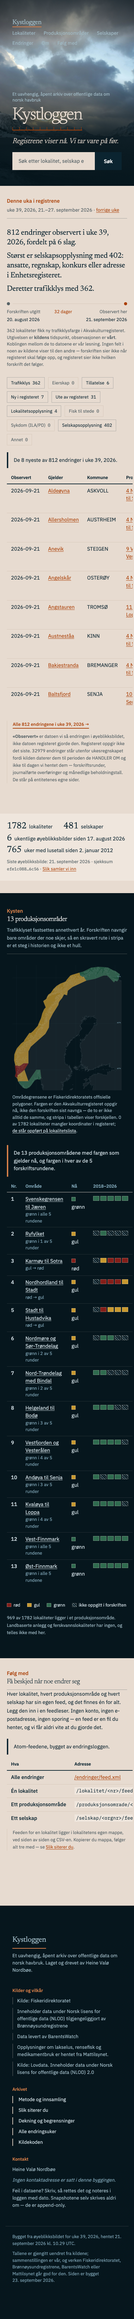
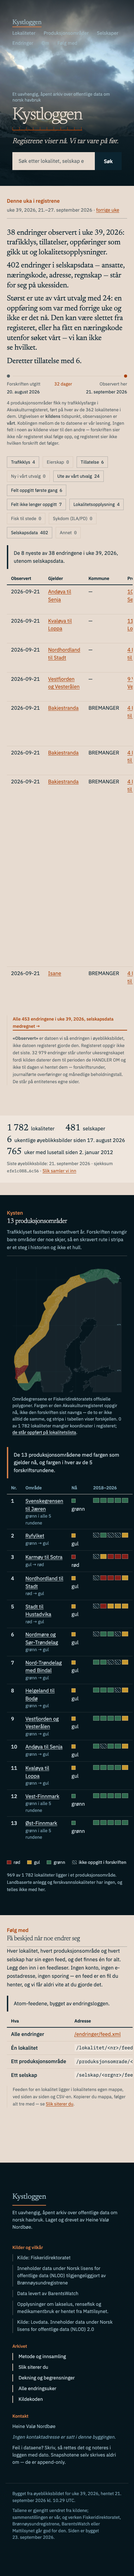
Skjermbildene på nytt, etter punkt 1–3
Samme fem sider, 1440 og 390 px, lys modus, av det ferdige bygget. Tre
endringer er synlige i bildene: uke 39 sier 38 og ikke 812,
selskapsdata står i sin egen sammenfoldede del nederst, og
produksjonsområdesiden har beleggsgraden «beslutning» med sitatet fra
kunngjøringen.

Endringssiden ved 1440 px er nå HEL — 5 518 px mot 43 322 før. Det er
en følge av designet, ikke av kuttet: de 402 selskapsdataradene ligger
i en `<details>` som skriptet lukker.

READMEen har fått en tabell over hvilke bilder som er kuttet og av hva.

diff --git a/docs/design/implementert/README.md b/docs/design/implementert/README.md
@@ -3,6 +3,12 @@
 Tatt 23.09.2026 av det ferdige bygget, ikke av prototypene.
 Lys modus, `deviceScaleFactor: 1`, fem sider i to bredder.
 
+**Fornyet 23.09.2026, etter tre endringer som alle er synlige i
+bildene:** uke 39 sier 38 endringer og ikke 812, selskapsdata står i
+sin egen sammenfoldede del nederst på endringssiden, og
+produksjonsområdesiden har den nye beleggsgraden «beslutning» med
+sitatet fra departementets kunngjøring.
+
 | Fil | Side |
 |---|---|
 | `forside-*.png` | `/` |
@@ -13,13 +19,22 @@ Lys modus, `deviceScaleFactor: 1`, fem sider i to bredder.
 
 ## Bildene er KUTTET ved 9 000 px, og det står her fordi det er et kutt
 
-Full sidehøyde for endringssiden er 65 472 px ved 390 px bredde: 812
-rader. Et slikt bilde er ikke et skjermbilde av et design, det er et
-arkiv av en tabell — og det ville ligget i git for alltid.
+| fil | px | hel? |
+|---|---:|---|
+| `forside-1440` | 5 086 | hel |
+| `forside-390` | 7 484 | hel |
+| `lokalitet-31397-1440` | 7 467 | hel |
+| `lokalitet-31397-390` | 9 000 | kuttet av 12 538 |
+| `produksjonsomrade-4-1440` | 9 000 | kuttet av 14 695 |
+| `produksjonsomrade-4-390` | 9 000 | kuttet av 25 097 |
+| `selskap-964118191-1440` | 9 000 | kuttet av 16 816 |
+| `selskap-964118191-390` | 9 000 | kuttet av 45 401 |
+| `endringer-2026-39-1440` | 5 518 | hel |
+| `endringer-2026-39-390` | 9 000 | kuttet av 9 112 |
 
-Kuttet gjelder `lokalitet-390`, `produksjonsomrade-4` i begge bredder,
-`selskap-964118191` i begge og `endringer-2026-39` i begge. Forsiden og
-lokalitetssiden ved 1440 px er hele.
+Endringssiden ved 1440 px er nå HEL, og det er en følge av designet og
+ikke av kuttet: de 402 selskapsdataradene ligger i en `<details>` som
+skriptet lukker. Før 23.09 var den samme siden 43 322 px.
 
 ## Hvordan de er tatt
 
